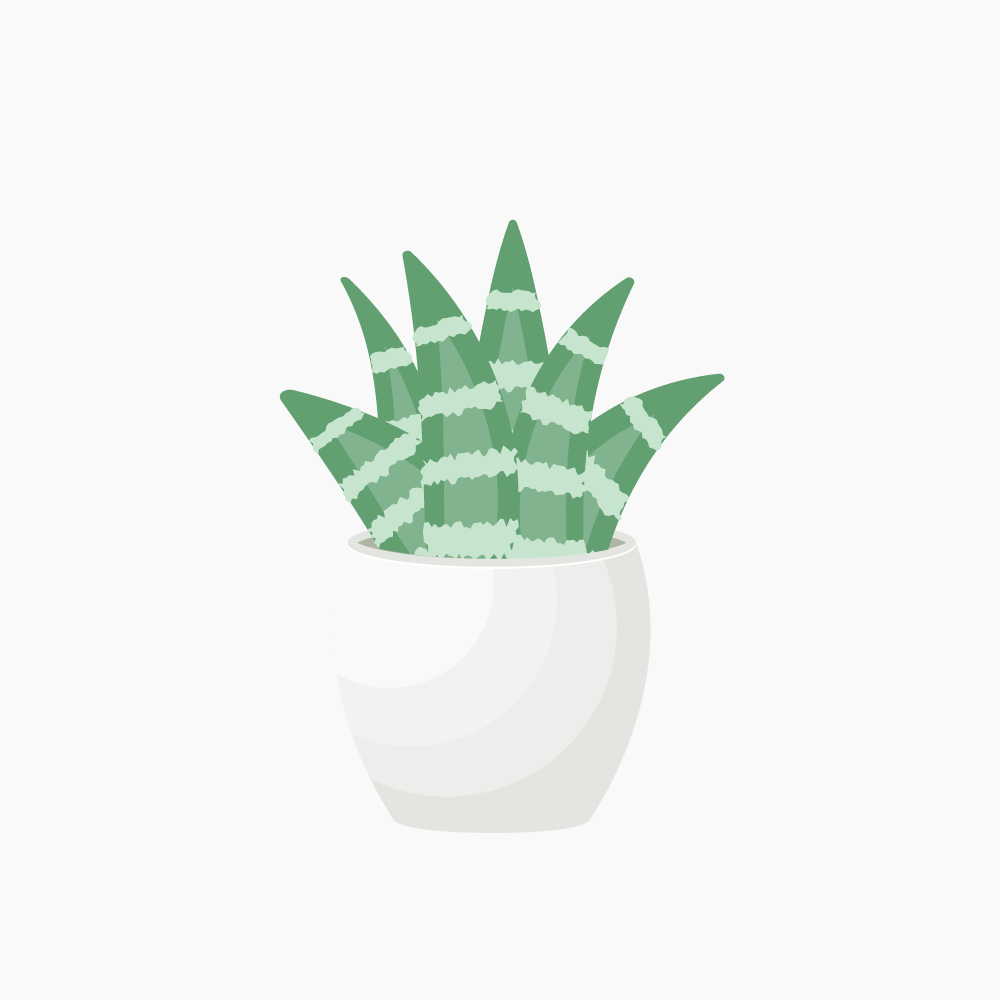
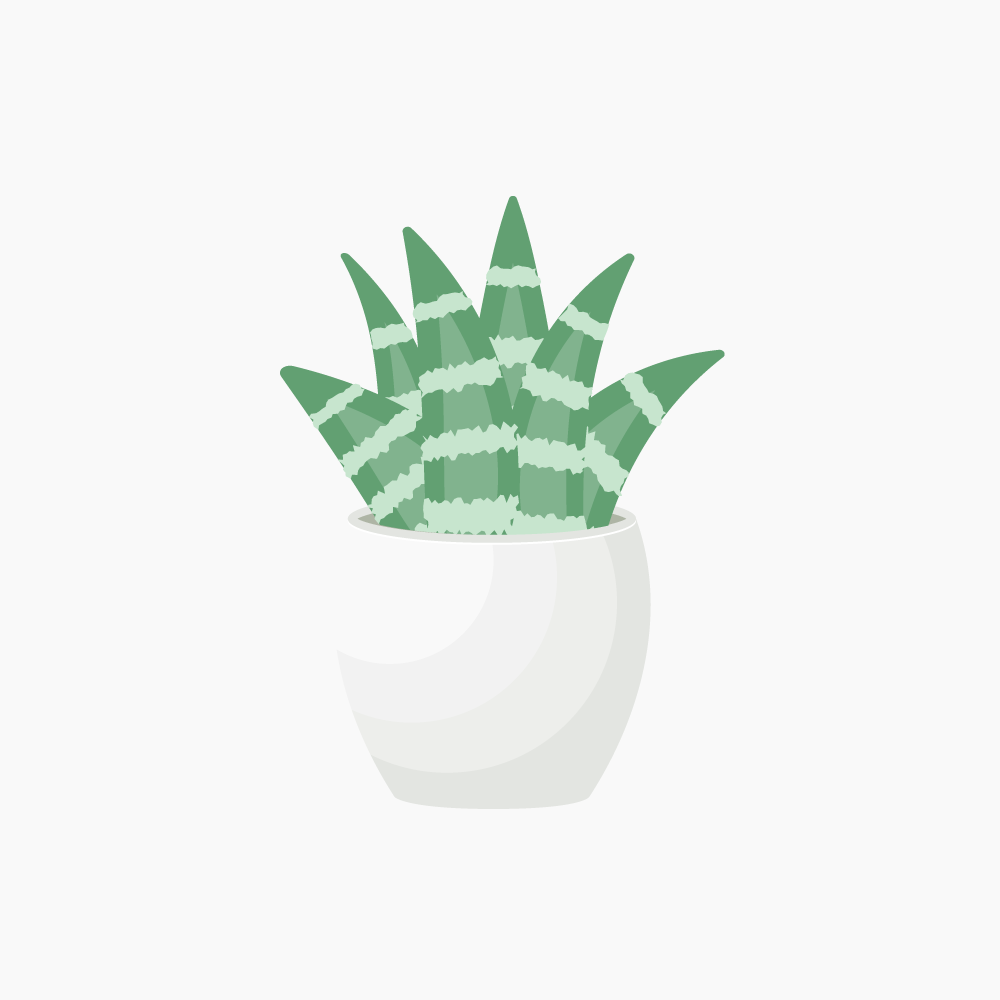
duorou

Changed region(s): [[0.279, 0.186, 0.744, 0.558]]

diff --git a/_site/DuoRou/index.html b/_site/DuoRou/index.html
@@ -2,4 +2,4 @@
 <!--[if lt IE 7]><html class="no-js lt-ie9 lt-ie8 lt-ie7"> <![endif]--><!--[if (IE 7)&!(IEMobile)]><html class="no-js lt-ie9 lt-ie8"><![endif]--><!--[if (IE 8)&!(IEMobile)]><html class="no-js lt-ie9"><![endif]--><!--[if gt IE 8]><!--><html class="no-js">
 <!--<![endif]--> <head> <meta charset="UTF-8"> <meta content="text/html; charset=UTF-8" http-equiv="Content-Type"> <meta http-equiv="X-UA-Compatible" content="IE=edge,chrome=1"> <title>萌萌哒多肉 – 鹿</title> <meta name="description" content="UI设计师"> <meta name="keywords" content="jekyll, moon, blog, about, theme"> <!-- Twitter Cards --> <meta name="twitter:card" content="summary"> <meta name="twitter:image" content="http://localhost:4000/assets/img/logo.png"> <meta name="twitter:title" content="萌萌哒多肉"> <meta name="twitter:description" content=""> <meta name="twitter:site" content="@fionalu"> <meta name="twitter:creator" content="@fionalu"> <!-- Open Graph --> <meta property="og:locale" content="en_US"> <meta property="og:type" content="article"> <meta property="og:title" content="萌萌哒多肉"> <meta property="og:description" content=""> <meta property="og:url" content="http://localhost:4000/DuoRou/"> <meta property="og:site_name" content="鹿"> <meta property="og:image" content="http://localhost:4000/assets/img/logo.png"> <link rel="canonical" href="http://localhost:4000/DuoRou/"> <link href="http://localhost:4000/feed.xml" type="application/atom+xml" rel="alternate" title="鹿 Feed"> <!-- Handheld --> <meta name="HandheldFriendly" content="True"> <meta name="MobileOptimized" content="320"> <meta name="viewport" content="width=device-width, initial-scale=1.0"> <!-- CSS --> <link rel="stylesheet" href="http://localhost:4000/assets/css/main.css"> <link rel="stylesheet" type="text/css" href="/assets/css/css.css"> <!-- JS --> <script src="http://localhost:4000/assets/js/modernizr-3.3.1.custom.min.js"></script> <!-- Favicons --> <link rel="apple-touch-icon" href="http://localhost:4000/assets/img/favicons/apple-icon-precomposed.png"> <link rel="apple-touch-icon" sizes="72x72" href="http://localhost:4000/assets/img/favicons/apple-icon-72x72.png"> <link rel="apple-touch-icon" sizes="114x114" href="http://localhost:4000/assets/img/favicons/apple-icon-114x114.png"> <link rel="apple-touch-icon" sizes="144x144" href="http://localhost:4000/assets/img/favicons/apple-icon-144x144.png"> <link rel="shortcut icon" type="image/png" href="http://localhost:4000/favicon.png"> <link rel="shortcut icon" href="http://localhost:4000/favicon.ico"> <!-- Background Image --> <!-- Post Feature Image --> </head> <body> <nav id="dl-menu" class="dl-menuwrapper" role="navigation"> <button class="dl-trigger">Open Menu</button> <ul class="dl-menu"> <li><a href="http://localhost:4000/">首页</a></li> <li> <a href="#">关于</a> <ul class="dl-submenu"> <li> <center> <img src="/assets/img/logo2.png" alt="鹿 photo" style="width: 96px; height: 96px; margin-top: 20px; border-radius: 100%; box-shadow: 0 0 4px rgba(0,0,0,.3);"> <h4>鹿</h4> <p>UI设计师</p> </center> <div style="margin-left: 20px; margin-bottom: 2px;"> <span> <img src="/assets/img/nav/email.svg" style="width: 14px; display: inline-block;"> </span> <span style="font-size: 10px; font-weight: 100; color: rgba(255,255,255,.8); padding-left: 4px;">18217123430@163.com </span> </div> <div style="margin-left: 20px;"> <span> <img src="/assets/img/nav/qq.svg" style="width: 14px; display: inline-block;"> </span> <span style="font-size: 10px; font-weight: 100; color: rgba(255,255,255,.8); padding-left: 4px;">282588052</span> </div> </li> <li style="margin-top: 30px;"> <center> <a href="http://localhost:4000/about/"><span style="color: rgba(255,255,255,.9);">More</span></a> </center> </li> </ul>
 <!-- /.dl-submenu --> </li> <li> <a href="http://localhost:4000/posts/">博文</a> </li> <li><a href="http://localhost:4000/projects/">作品</a></li> </ul>
-<!-- /.dl-menu --> </nav><!-- /.dl-menuwrapper --> <!-- Header --> <header class="header" role="banner"> <div class="animated fadeIn"> <div class="content"> <div class="post-title "> <h1>萌萌哒多肉</h1> <!-- <h4>15 Nov 2016</h4> --> <a class="btnBack" href="http://localhost:4000/projects/"> ↼ B A C K </a> </div> <figure><img src="/assets/img/duoRou/01.png" style="width: 500px;"></figure> <figure><img src="/assets/img/duoRou/02.png" style="width: 500px;"></figure> <center> <figcaption>多肉植物插画</figcaption> </center> <p><br></p> <!-- 多说分享 start --> <!-- <div class="ds-share" data-thread-key=/DuoRou data-title={page.title}} data-images="此处请替换为分享时显示的图片的链接地址" data-content="此处请替换为分享时显示的内容" data-url=/DuoRou/> <div class="ds-share-inline"> <ul class="ds-share-icons-16"> <li> <a id="icon_share1" class="icon_share" href="javascript:void(0);" data-service="weibo"> <i class="iconfont">&#xe61a;</i> </a> </li> <li> <a id="icon_share2" class="icon_share" href="javascript:void(0);" data-service="wechat"> <i class="iconfont">&#xe66f;</i> </a> </li> <li> <a id="icon_share3" class="icon_share" href="javascript:void(0);" data-service="douban"> <i class="iconfont">&#xe60c;</i> </a> </li> </ul> <div class="ds-share-icons-more"> </div> </div> </div> --> <!-- 多说分享 end --> <!-- 多说评论框 start --> <div class="ds-thread" data-thread-key="/DuoRou" data-title="萌萌哒多肉" data-url="/DuoRou/"></div> <!-- 多说评论框 end --> <!-- 多说公共JS代码 start (一个网页只需插入一次) --> <script type="text/javascript"> var duoshuoQuery = {short_name:"fionalu"}; (function() { var ds = document.createElement('script'); ds.type = 'text/javascript';ds.async = true; ds.src = (document.location.protocol == 'https:' ? 'https:' : 'http:') + '//static.duoshuo.com/embed.js'; ds.charset = 'UTF-8'; (document.getElementsByTagName('head')[0] || document.getElementsByTagName('body')[0]).appendChild(ds); })(); </script> <!-- 多说公共JS代码 end --> <div class="entry-meta"> <!-- <br> <hr> <span class="entry-tags"><a href="http://localhost:4000/tags/#jekyll" title="Pages tagged jekyll" class="tag"><span class="term">jekyll</span></a><a href="http://localhost:4000/tags/#moon" title="Pages tagged moon" class="tag"><span class="term">moon</span></a><a href="http://localhost:4000/tags/#blog" title="Pages tagged blog" class="tag"><span class="term">blog</span></a><a href="http://localhost:4000/tags/#about" title="Pages tagged about" class="tag"><span class="term">about</span></a><a href="http://localhost:4000/tags/#theme" title="Pages tagged theme" class="tag"><span class="term">theme</span></a></span> <span class="social-share"> <a href="https://www.facebook.com/sharer/sharer.php?u=http://localhost:4000/DuoRou/" title="Share on Facebook" class="tag"> <span class="term"><i class="fa fa-facebook-square"></i> Like</span> </a> <a href="https://twitter.com/intent/tweet?text=http://localhost:4000/DuoRou/" title="Share on Twitter" class="tag"> <span class="term"><i class="fa fa-twitter-square"></i> Tweet</span> </a> <a href="https://plus.google.com/share?url=http://localhost:4000/DuoRou/" title="Share on Google+" class="tag"> <span class="term"><i class="fa fa-google-plus-square"></i> +1</span> </a> </span> <div style="clear:both"></div> --> </div> </div> </div> </header> <!-- JS --> <script src="http://localhost:4000/assets/js/jquery-1.12.0.min.js"></script> <script src="http://localhost:4000/assets/js/jquery.dlmenu.min.js"></script> <script src="http://localhost:4000/assets/js/jquery.goup.min.js"></script> <script src="http://localhost:4000/assets/js/jquery.magnific-popup.min.js"></script> <script src="http://localhost:4000/assets/js/jquery.fitvid.min.js"></script> <script src="http://localhost:4000/assets/js/scripts.js"></script> <!-- MathJax --> <!-- <script async src="https://cdn.mathjax.org/mathjax/latest/MathJax.js?config=TeX-AMS-MML_HTMLorMML"></script> <script type="text/javascript">var cnzz_protocol = (("https:" == document.location.protocol) ? " https://" : " http://");document.write(unescape("%3Cspan id='cnzz_stat_icon_1260823669'%3E%3C/span%3E%3Cscript src='" + cnzz_protocol + "s4.cnzz.com/z_stat.php%3Fid%3D1260823669%26show%3Dpic1' type='text/javascript'%3E%3C/script%3E"));</script> --> </body> </html>
+<!-- /.dl-menu --> </nav><!-- /.dl-menuwrapper --> <!-- Header --> <header class="header" role="banner"> <div class="animated fadeIn"> <div class="content"> <div class="post-title "> <h1>萌萌哒多肉</h1> <!-- <h4>15 Nov 2016</h4> --> <a class="btnBack" href="http://localhost:4000/projects/"> ↼ B A C K </a> </div> <figure><img src="/assets/img/duoRou/01.png" style="width: 500px;"></figure> <figure><img src="/assets/img/duoRou/02.png" style="width: 500px;"></figure> <figure><img src="/assets/img/duoRou/03.png" style="width: 500px;"></figure> <center> <figcaption>多肉植物插画</figcaption> </center> <p><br></p> <!-- 多说分享 start --> <!-- <div class="ds-share" data-thread-key=/DuoRou data-title={page.title}} data-images="此处请替换为分享时显示的图片的链接地址" data-content="此处请替换为分享时显示的内容" data-url=/DuoRou/> <div class="ds-share-inline"> <ul class="ds-share-icons-16"> <li> <a id="icon_share1" class="icon_share" href="javascript:void(0);" data-service="weibo"> <i class="iconfont">&#xe61a;</i> </a> </li> <li> <a id="icon_share2" class="icon_share" href="javascript:void(0);" data-service="wechat"> <i class="iconfont">&#xe66f;</i> </a> </li> <li> <a id="icon_share3" class="icon_share" href="javascript:void(0);" data-service="douban"> <i class="iconfont">&#xe60c;</i> </a> </li> </ul> <div class="ds-share-icons-more"> </div> </div> </div> --> <!-- 多说分享 end --> <!-- 多说评论框 start --> <div class="ds-thread" data-thread-key="/DuoRou" data-title="萌萌哒多肉" data-url="/DuoRou/"></div> <!-- 多说评论框 end --> <!-- 多说公共JS代码 start (一个网页只需插入一次) --> <script type="text/javascript"> var duoshuoQuery = {short_name:"fionalu"}; (function() { var ds = document.createElement('script'); ds.type = 'text/javascript';ds.async = true; ds.src = (document.location.protocol == 'https:' ? 'https:' : 'http:') + '//static.duoshuo.com/embed.js'; ds.charset = 'UTF-8'; (document.getElementsByTagName('head')[0] || document.getElementsByTagName('body')[0]).appendChild(ds); })(); </script> <!-- 多说公共JS代码 end --> <div class="entry-meta"> <!-- <br> <hr> <span class="entry-tags"><a href="http://localhost:4000/tags/#jekyll" title="Pages tagged jekyll" class="tag"><span class="term">jekyll</span></a><a href="http://localhost:4000/tags/#moon" title="Pages tagged moon" class="tag"><span class="term">moon</span></a><a href="http://localhost:4000/tags/#blog" title="Pages tagged blog" class="tag"><span class="term">blog</span></a><a href="http://localhost:4000/tags/#about" title="Pages tagged about" class="tag"><span class="term">about</span></a><a href="http://localhost:4000/tags/#theme" title="Pages tagged theme" class="tag"><span class="term">theme</span></a></span> <span class="social-share"> <a href="https://www.facebook.com/sharer/sharer.php?u=http://localhost:4000/DuoRou/" title="Share on Facebook" class="tag"> <span class="term"><i class="fa fa-facebook-square"></i> Like</span> </a> <a href="https://twitter.com/intent/tweet?text=http://localhost:4000/DuoRou/" title="Share on Twitter" class="tag"> <span class="term"><i class="fa fa-twitter-square"></i> Tweet</span> </a> <a href="https://plus.google.com/share?url=http://localhost:4000/DuoRou/" title="Share on Google+" class="tag"> <span class="term"><i class="fa fa-google-plus-square"></i> +1</span> </a> </span> <div style="clear:both"></div> --> </div> </div> </div> </header> <!-- JS --> <script src="http://localhost:4000/assets/js/jquery-1.12.0.min.js"></script> <script src="http://localhost:4000/assets/js/jquery.dlmenu.min.js"></script> <script src="http://localhost:4000/assets/js/jquery.goup.min.js"></script> <script src="http://localhost:4000/assets/js/jquery.magnific-popup.min.js"></script> <script src="http://localhost:4000/assets/js/jquery.fitvid.min.js"></script> <script src="http://localhost:4000/assets/js/scripts.js"></script> <!-- MathJax --> <!-- <script async src="https://cdn.mathjax.org/mathjax/latest/MathJax.js?config=TeX-AMS-MML_HTMLorMML"></script> <script type="text/javascript">var cnzz_protocol = (("https:" == document.location.protocol) ? " https://" : " http://");document.write(unescape("%3Cspan id='cnzz_stat_icon_1260823669'%3E%3C/span%3E%3Cscript src='" + cnzz_protocol + "s4.cnzz.com/z_stat.php%3Fid%3D1260823669%26show%3Dpic1' type='text/javascript'%3E%3C/script%3E"));</script> --> </body> </html>

diff --git a/_posts/2016-11-16-DuoRou.md b/_posts/2016-11-16-DuoRou.md
@@ -17,6 +17,7 @@ comments: true
 
 <figure><img src="/assets/img/duoRou/01.png" style="width: 500px;"></figure>
 <figure><img src="/assets/img/duoRou/02.png" style="width: 500px;"></figure>
+<figure><img src="/assets/img/duoRou/03.png" style="width: 500px;"></figure>
 <center>
 	<figcaption>多肉植物插画</figcaption>
 </center>
